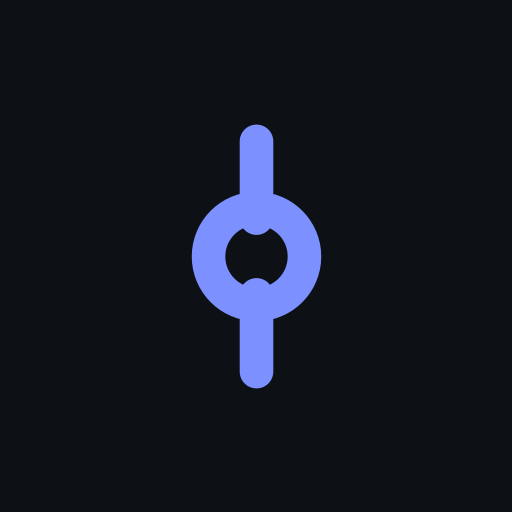
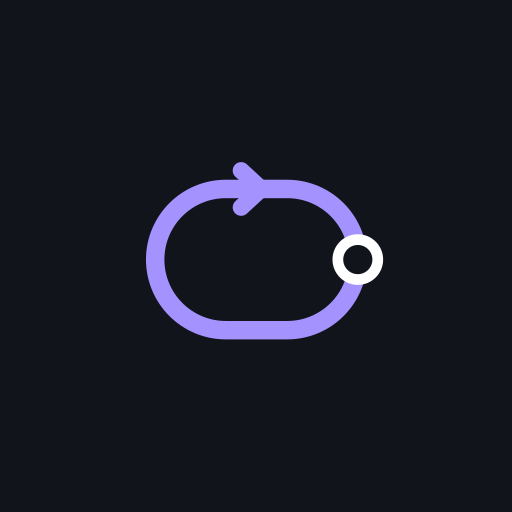
feat: the app is Senior Loop
The owner renamed the app and chose its mark: a loop with a direction
and one station on it, in a thin line, the same drawing as the phone
app's icon. The title, the install manifest, the icons, the desktop
rail and the copy that names the app all change; the export file is now
senior-loop-progress-<date>.json.

The repo, the Pages URL, the export format id and the storage keys
keep the old name on purpose, so links, installs and saved progress
keep working; a test pins that an export still imports.

Claude-Session: https://claude.ai/code/session_016bpCTsna3hSe66cfB5WjjQ

Changed region(s): [[0.2812, 0.2188, 0.75, 0.7812]]

diff --git a/src/lib/export.ts b/src/lib/export.ts
@@ -8,6 +8,7 @@
 
 import { migrate, type ProgressState } from './progressState'
 
+// The app was called Throughput when this was written. The id stays, so every export still imports.
 const FORMAT = 'throughput.progress'
 
 interface Envelope {
@@ -22,7 +23,7 @@ export function exportFilename(now = new Date()): string {
   const d = `${now.getFullYear()}-${String(now.getMonth() + 1).padStart(2, '0')}-${String(
     now.getDate(),
   ).padStart(2, '0')}`
-  return `throughput-progress-${d}.json`
+  return `senior-loop-progress-${d}.json`
 }
 
 export function toJson(progress: ProgressState): string {
@@ -44,7 +45,7 @@ export function parseImport(text: string): ParseResult {
   try {
     raw = JSON.parse(text)
   } catch {
-    return { ok: false, error: "That file isn't valid JSON. Pick the file you exported from Throughput." }
+    return { ok: false, error: "That file isn't valid JSON. Pick the file you exported from Senior Loop." }
   }
 
   if (typeof raw !== 'object' || raw === null) {
@@ -55,7 +56,7 @@ export function parseImport(text: string): ParseResult {
   if (env.format !== FORMAT) {
     return {
       ok: false,
-      error: "That's not a Throughput export. Look for a file named throughput-progress-<date>.json.",
+      error: "That's not a Senior Loop export. Look for a file named senior-loop-progress-<date>.json (or throughput-progress-<date>.json from before the app was renamed).",
     }
   }
 

diff --git a/src/lib/storage.test.ts b/src/lib/storage.test.ts
@@ -1,6 +1,6 @@
 import { describe, expect, it } from 'vitest'
-import { migrate, stopKey } from './storage'
-import { parseImport } from './export'
+import { emptyProgress, migrate, stopKey } from './storage'
+import { exportFilename, parseImport, toJson } from './export'
 
 /** A v1 record exactly as the previous build wrote it. */
 function v1(over: Record<string, unknown> = {}) {
@@ -193,10 +193,21 @@ describe('parseImport', () => {
     expect(r.progress.onboarded).toBe(true)
   })
 
-  it('rejects JSON that is not a Throughput export', () => {
+  it('rejects JSON that is not a Senior Loop export', () => {
     const r = parseImport(JSON.stringify({ hello: 'world' }))
     expect(r.ok).toBe(false)
     if (r.ok) return
-    expect(r.error).toMatch(/not a Throughput export/)
+    expect(r.error).toMatch(/not a Senior Loop export/)
+  })
+
+  it('names the export file after the app', () => {
+    expect(exportFilename(new Date(2026, 10, 9))).toBe('senior-loop-progress-2026-11-09.json')
+  })
+
+  it('still reads an export made under the old name, Throughput', () => {
+    // The format id inside the file is unchanged by the rename, so old files keep importing.
+    const text = toJson({ ...emptyProgress(), onboarded: true })
+    expect(JSON.parse(text).format).toBe('throughput.progress')
+    expect(parseImport(text).ok).toBe(true)
   })
 })

diff --git a/src/components/nav/Shell.tsx b/src/components/nav/Shell.tsx
@@ -71,11 +71,9 @@ export function Shell() {
       {/* ≥1024px: the tab bar becomes a rail. Same destinations, same order. */}
       <aside className="hidden lg:sticky lg:top-0 lg:flex lg:h-dvh lg:w-64 lg:shrink-0 lg:flex-col lg:gap-1 lg:overflow-y-auto lg:bg-surface-2/50 lg:p-4">
         <Link to="/" className="mb-4 flex items-center gap-2.5 rounded-xl px-3 pt-2">
-          <span className="flex h-8 w-8 items-center justify-center rounded-[10px] bg-line text-line-ink">
-            <RouteIcon size={17} strokeWidth={2.4} aria-hidden="true" />
-          </span>
+          <img src={`${import.meta.env.BASE_URL}favicon.svg`} alt="" className="h-8 w-8 rounded-[9px]" />
           <span>
-            <span className="block text-[1rem] leading-tight font-extrabold">Throughput</span>
+            <span className="block text-[1rem] leading-tight font-extrabold">Senior Loop</span>
             <span className="block text-[0.8125rem] text-ink-3">Senior interview prep</span>
           </span>
         </Link>

diff --git a/src/components/ErrorBoundary.tsx b/src/components/ErrorBoundary.tsx
@@ -20,7 +20,7 @@ export class ErrorBoundary extends Component<{ children: ReactNode }, { error: E
   }
 
   componentDidCatch(error: Error, info: ErrorInfo) {
-    console.error('Throughput crashed while rendering', error, info.componentStack)
+    console.error('Senior Loop crashed while rendering', error, info.componentStack)
   }
 
   private async exportProgress() {
@@ -56,7 +56,7 @@ export class ErrorBoundary extends Component<{ children: ReactNode }, { error: E
         <div className="flex flex-col gap-2.5 pb-4">
           <Button size="lg" onClick={() => window.location.assign(import.meta.env.BASE_URL)}>
             <RotateCw size={18} strokeWidth={2.2} aria-hidden="true" />
-            Reload Throughput
+            Reload Senior Loop
           </Button>
           <Button size="lg" variant="secondary" onClick={() => void this.exportProgress()}>
             <Download size={18} strokeWidth={2.2} aria-hidden="true" />

diff --git a/vite.config.ts b/vite.config.ts
@@ -50,10 +50,10 @@ export default defineConfig({
       injectRegister: null, // PwaBanner registers via useRegisterSW
       includeAssets: ['favicon.svg', 'apple-touch-icon.png'],
       manifest: {
-        name: 'Throughput — System Design',
-        short_name: 'Throughput',
+        name: 'Senior Loop',
+        short_name: 'Senior Loop',
         description:
-          'A system design training app: read a station, drill it, then run the real problem on the clock.',
+          'Senior interview prep: system design, low-level design and behavioral. Read a lesson, drill it, then run the real problem on the clock.',
         theme_color: '#0A0C11',
         background_color: '#0A0C11',
         display: 'standalone',

diff --git a/index.html b/index.html
@@ -13,7 +13,7 @@
     <meta name="theme-color" content="#0A0C11" media="(prefers-color-scheme: dark)" />
     <meta name="apple-mobile-web-app-capable" content="yes" />
     <meta name="apple-mobile-web-app-status-bar-style" content="black-translucent" />
-    <title>Throughput</title>
+    <title>Senior Loop</title>
     <link rel="preconnect" href="https://fonts.googleapis.com" />
     <link rel="preconnect" href="https://fonts.gstatic.com" crossorigin />
     <link

diff --git a/src/components/onboarding/OnboardingSheet.tsx b/src/components/onboarding/OnboardingSheet.tsx
@@ -112,7 +112,7 @@ export function OnboardingSheet({ open, onClose, mode = 'first-run' }: { open: b
           {step === 'route' ? (
             <>
               <p className="pr-12 text-[0.9375rem] font-semibold text-ink-2">
-                {firstRun ? 'Welcome to Throughput' : 'Route and starting point'}
+                {firstRun ? 'Welcome to Senior Loop' : 'Route and starting point'}
               </p>
               <h2
                 id="onboarding-title"

diff --git a/src/content/bank/index.ts b/src/content/bank/index.ts
@@ -58,7 +58,7 @@ export interface QuestionTopic {
 
 export function questionTopic(q: Question): QuestionTopic {
   const m = q.moduleId ? getModule(q.moduleId) : undefined
-  if (!m) return { title: q.topic?.title ?? 'Throughput', href: q.topic?.href ?? '/learn' }
+  if (!m) return { title: q.topic?.title ?? 'Senior Loop', href: q.topic?.href ?? '/learn' }
   let href = `/m/${m.id}`
   if (q.section) {
     const want = plainText(q.section).trim()

diff --git a/src/routes/YouScreen.tsx b/src/routes/YouScreen.tsx
@@ -295,7 +295,7 @@ export function YouScreen() {
                       </span>
                       .
                     </Step>
-                    <Step n={3}>Open Throughput from the icon rather than the browser.</Step>
+                    <Step n={3}>Open Senior Loop from the icon rather than the browser.</Step>
                   </ol>
                 </li>
               )}

diff --git a/README.md b/README.md
@@ -1,8 +1,8 @@
-# Throughput
+# Senior Loop
 
 Senior interview preparation that works on a phone, offline.
 
-Throughput gets a software engineer ready for the three rounds that decide a senior
+Senior Loop (formerly Throughput) gets a software engineer ready for the three rounds that decide a senior
 offer — **system design**, **OOP / low-level design**, and **behavioral** — by teaching the
 concepts, drilling them, and then running the famous questions against the clock.
 

diff --git a/CLAUDE.md b/CLAUDE.md
@@ -1,4 +1,8 @@
-# Throughput — Claude Code context
+# Senior Loop — Claude Code context
+
+The app was called **Throughput** until 2026-11-19; the repo, the Pages URL, the export format
+id (`throughput.progress`) and the storage keys (`tp:*`) keep the old name on purpose, so
+links, installs and saved progress keep working. Name the app "Senior Loop" in anything new.
 
 ## What this is
 
